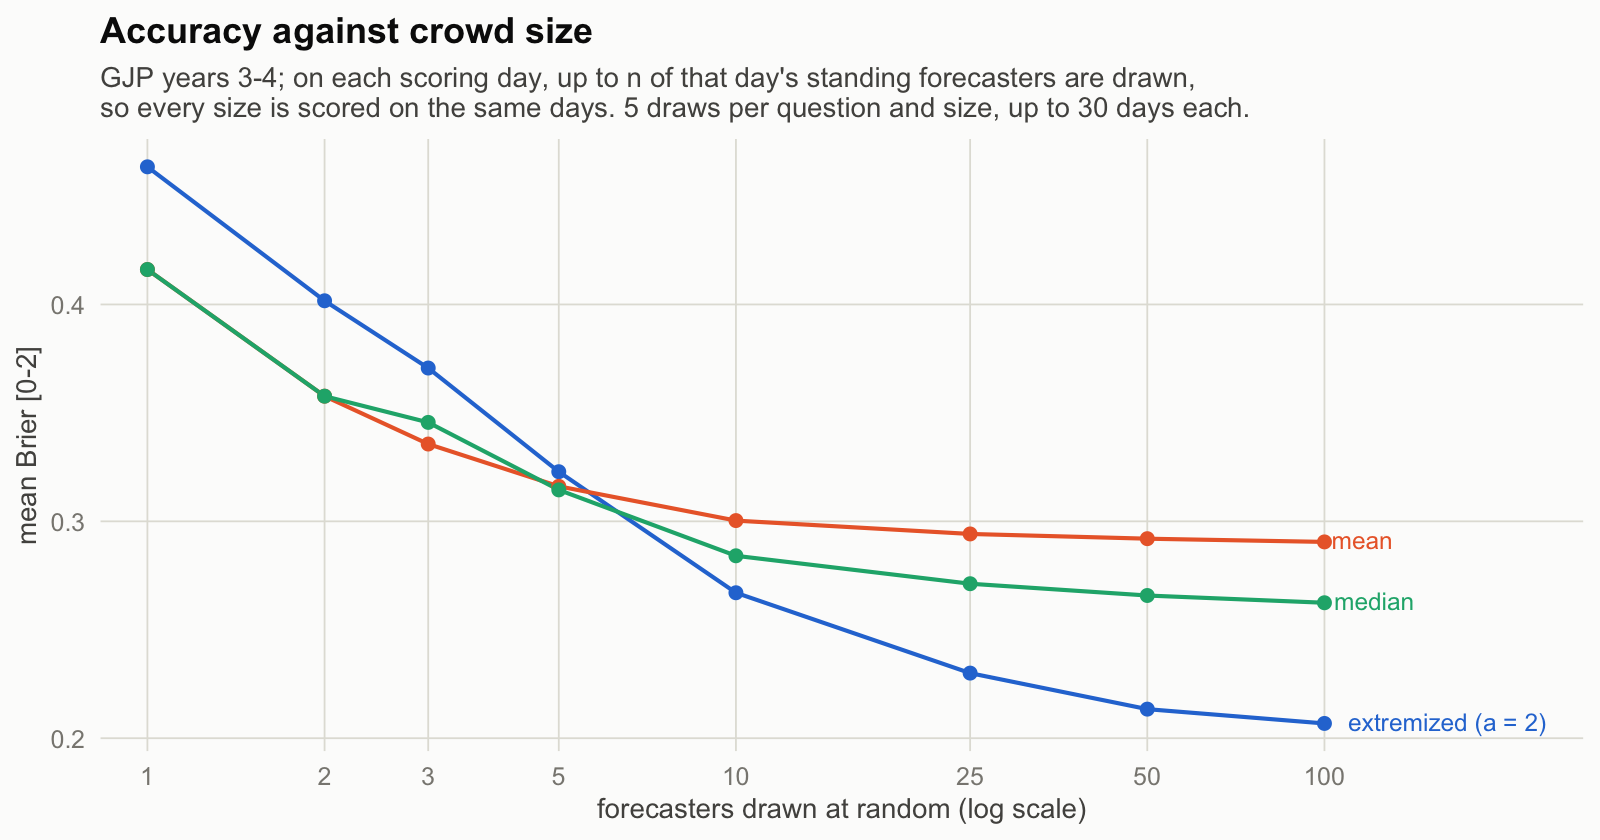
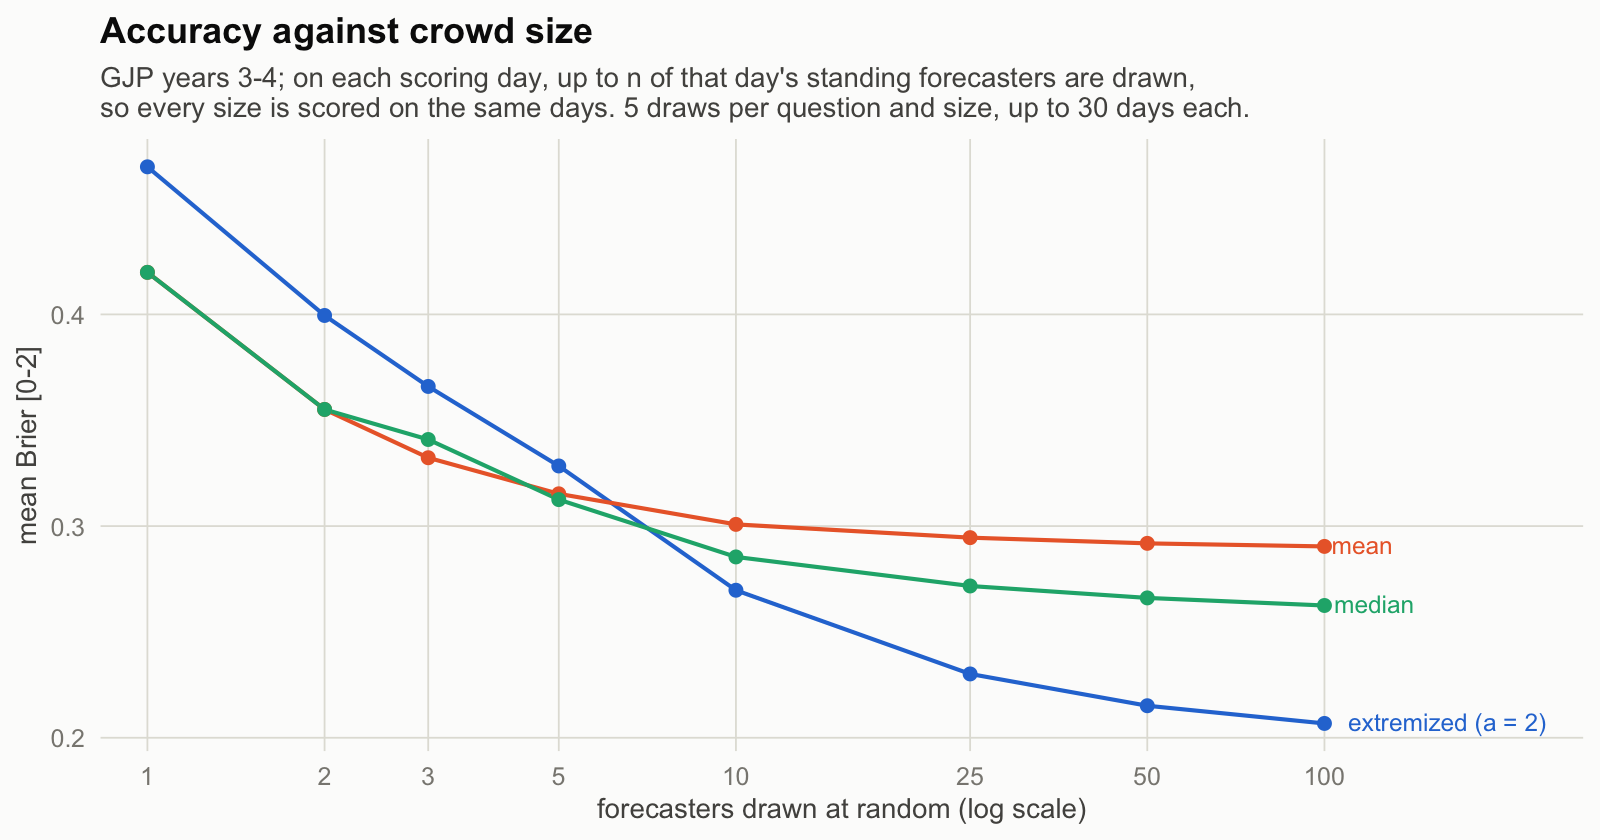
make the aggregation stage reproducible run to run
a SQL GROUP BY promises no row order, and both the question bootstrap
and the crowd-size draw were reading order. same data, same seed,
different intervals on a rebuild. the bootstrap now sorts its cluster
ids and every panel read orders down to user_id.

also: neyman returned NaN on a lone forecast of exactly 1, since
aggutils only replaces extremes when it has two or more values; the
crowd-size curve hands it single forecasts. and the tuner now errors
rather than freezing an empty parameter if a sweep label goes missing.

diff --git a/qa/qa_report.md b/qa/qa_report.md
@@ -1,6 +1,6 @@
 # QA report
 
-Generated: 2026-08-16 08:14:29 CST
+Generated: 2026-08-16 08:42:08 CST
 
 ## Checks
 
